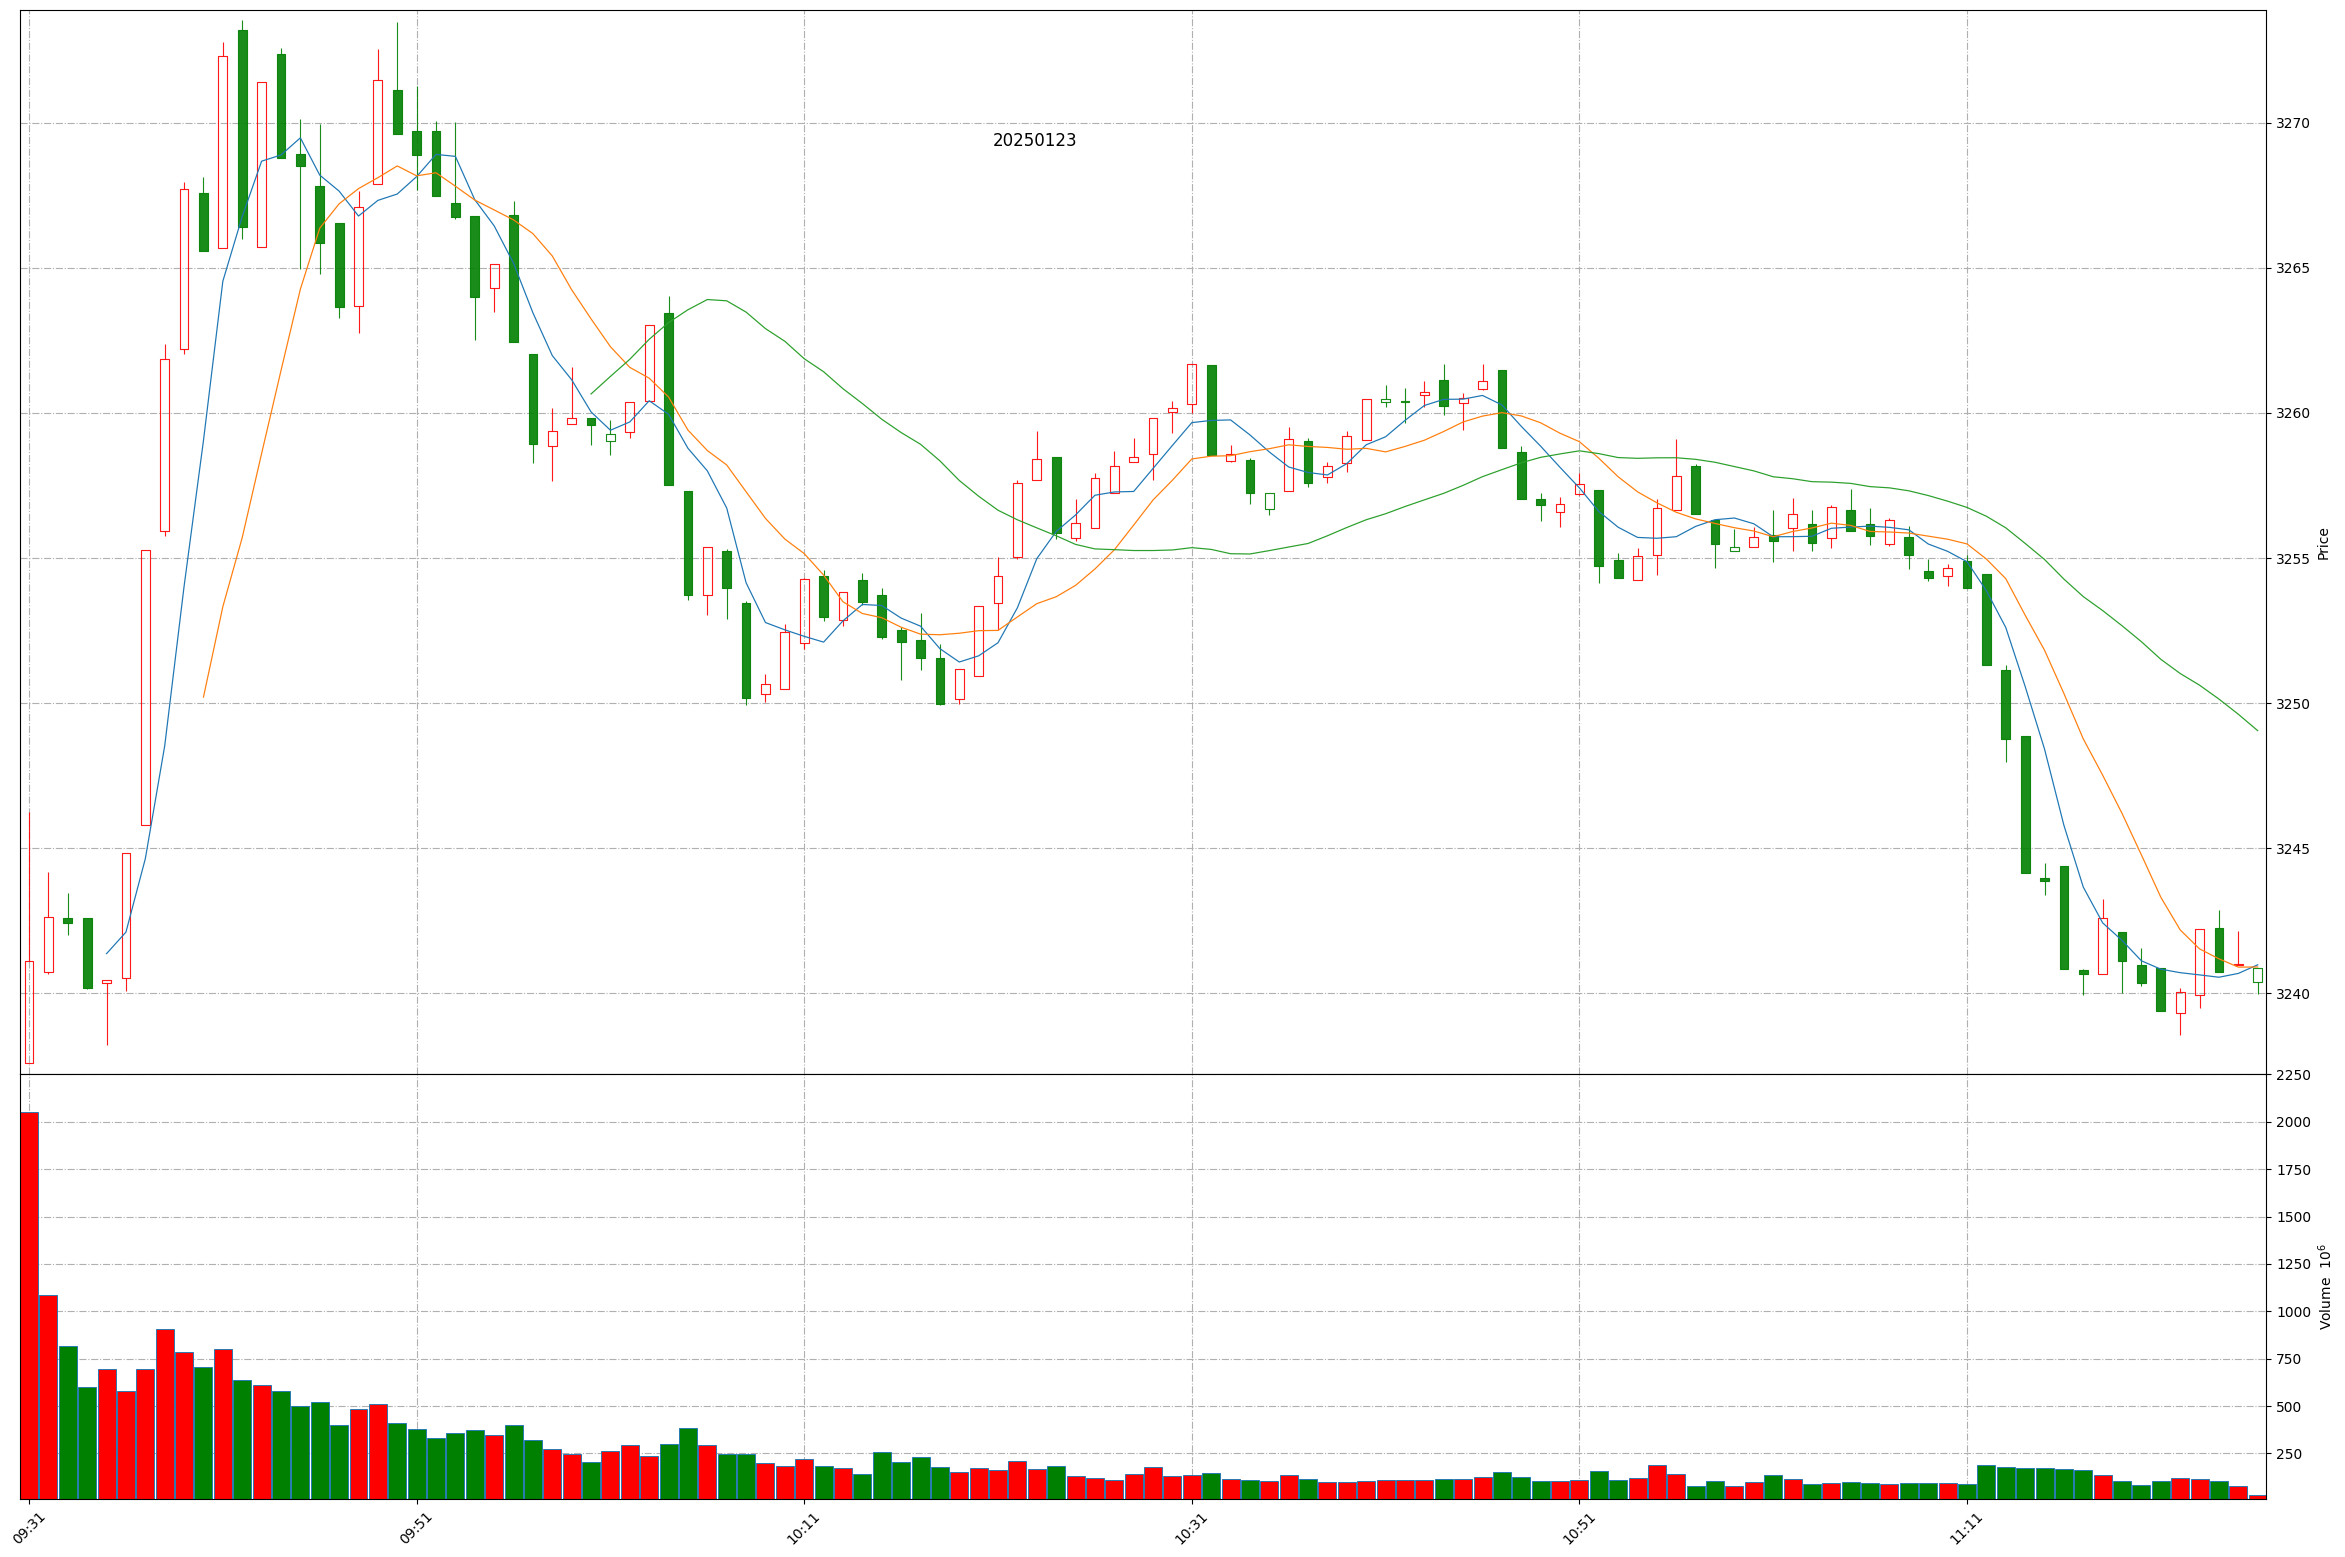
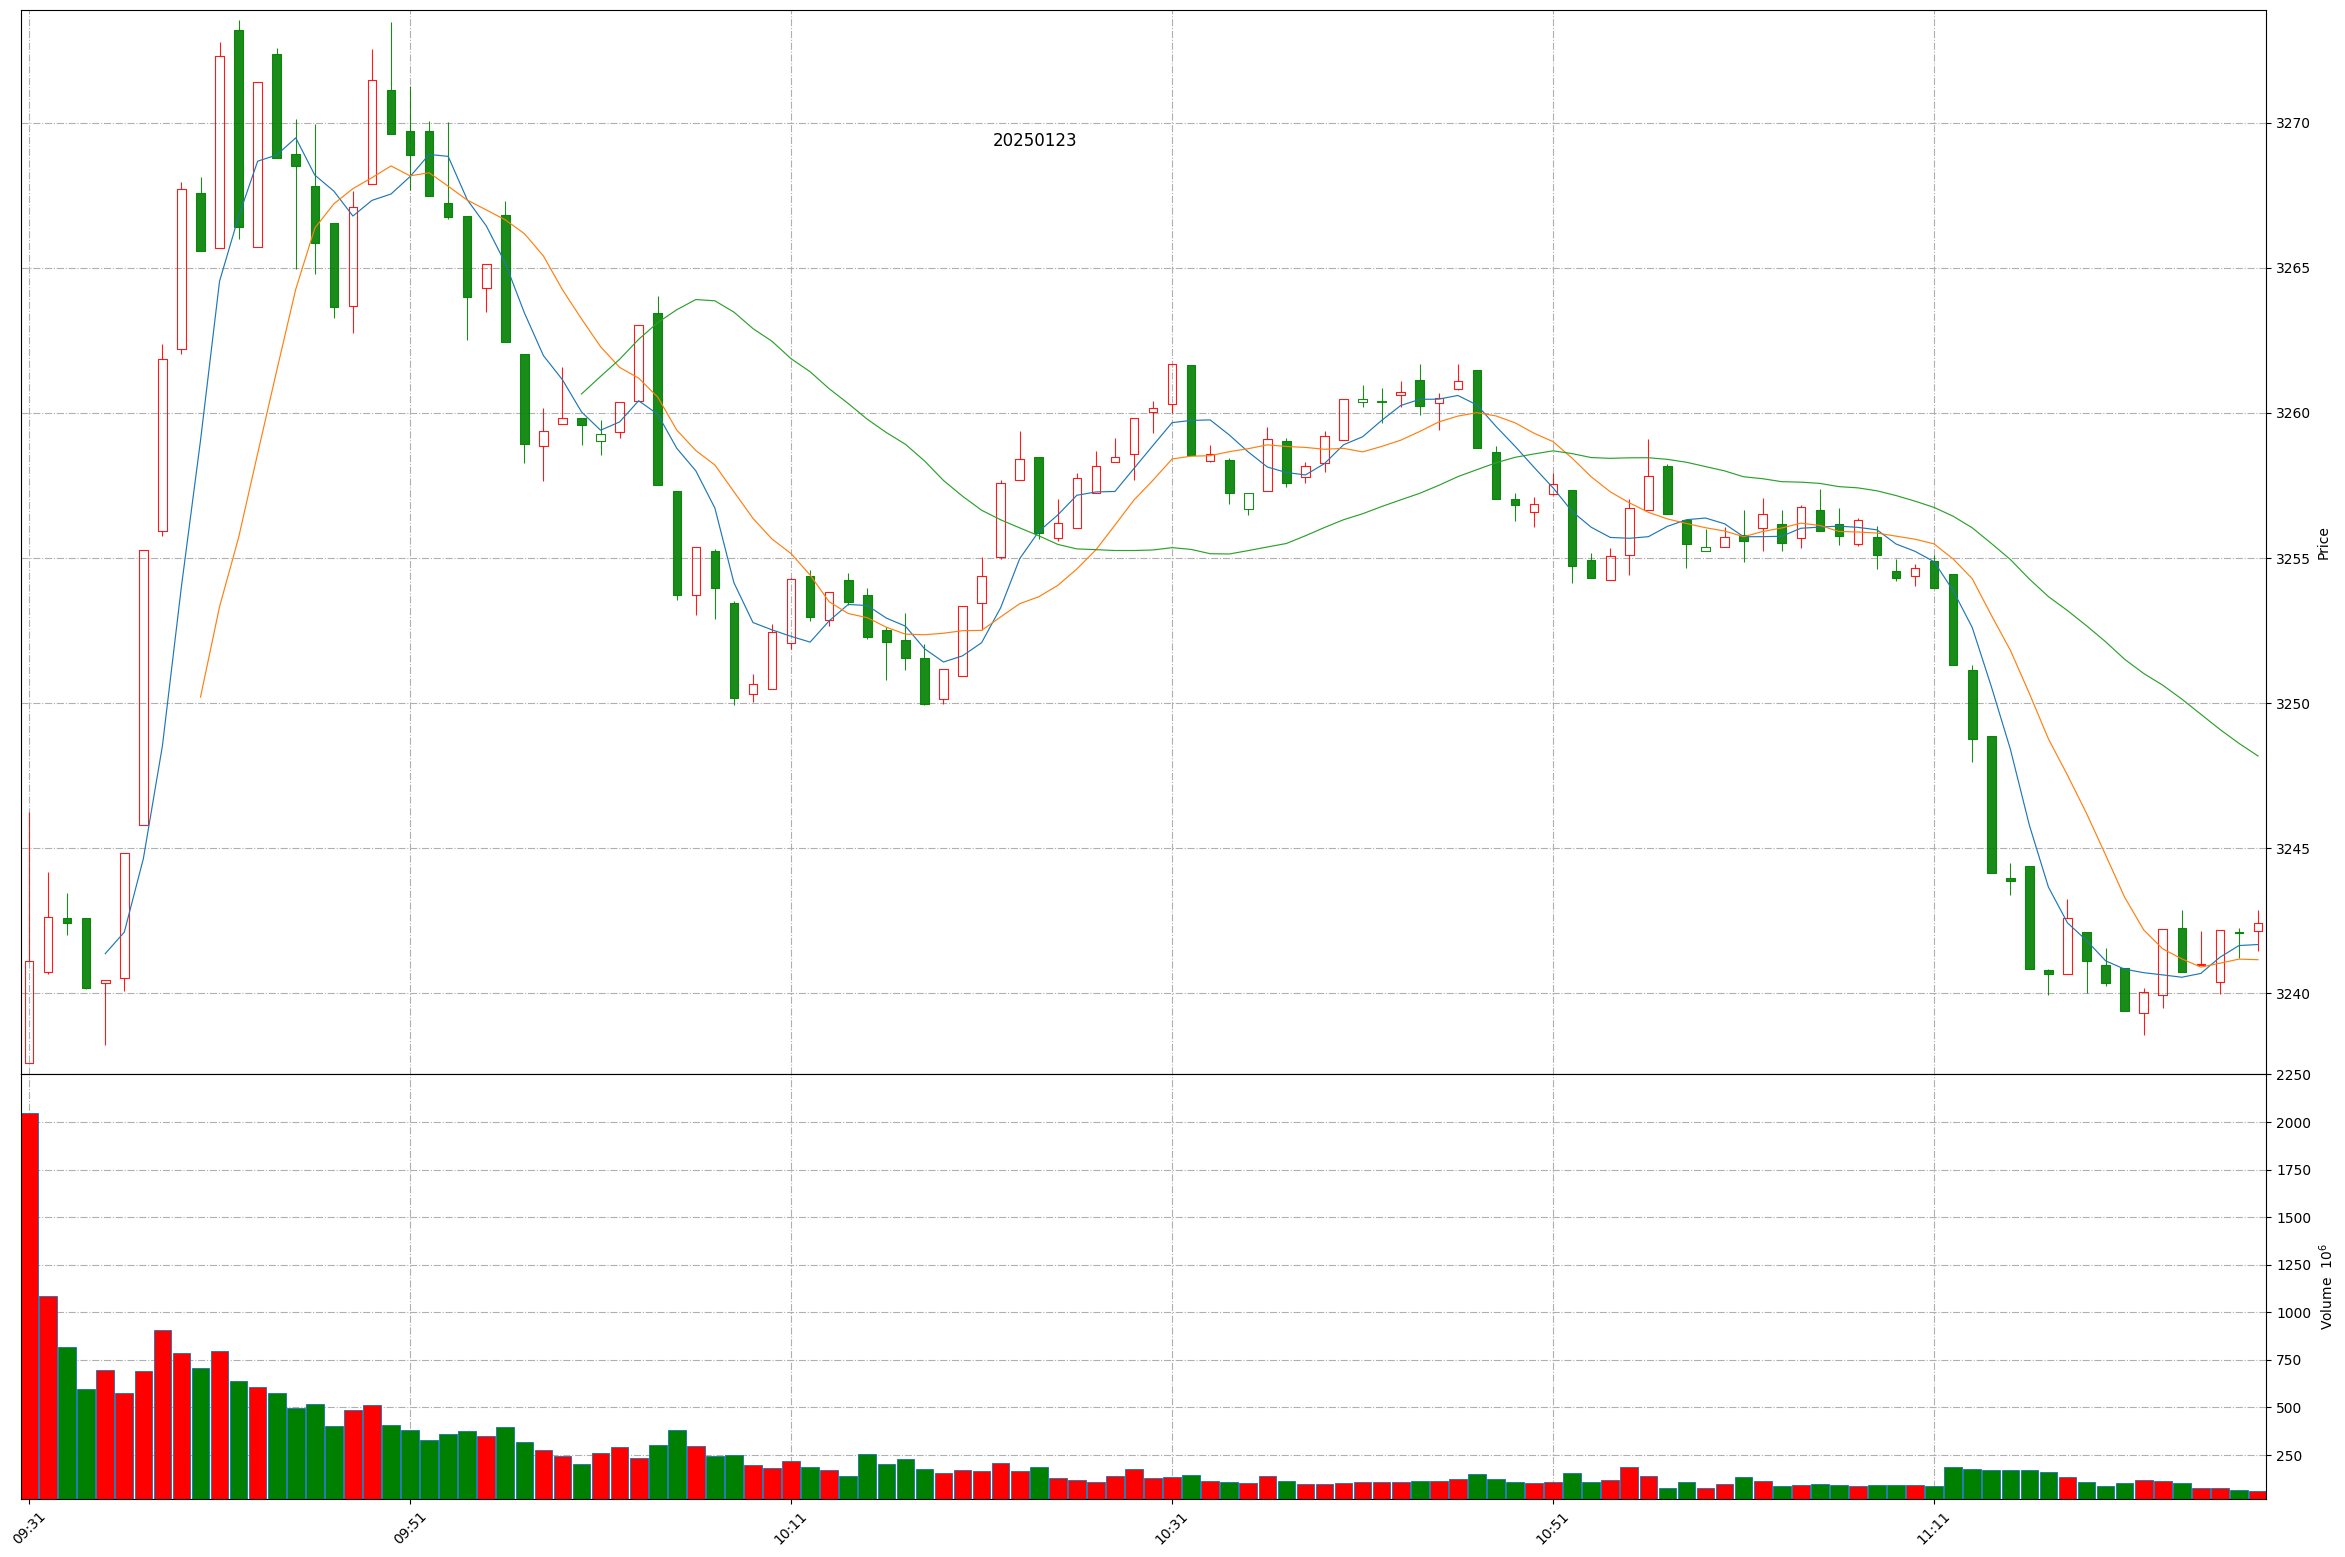
Github action update at 2025-01-23 11:28:18.

diff --git a/README.md b/README.md
@@ -1,11 +1,11 @@
 
 # Daily-A-share-market-quotes 每日 A 股指数（5min 更新）- 20250123
 
-### 上证指数 20250123 11:25
+### 上证指数 20250123 11:28
 ![](./fig/2025/1/20250123-sh000001.png)
 
-### 深证成指 20250123 11:25
+### 深证成指 20250123 11:28
 ![](./fig/2025/1/20250123-sz399001.png)
 
-### 北证50 20250123 11:25
+### 北证50 20250123 11:28
 ![](./fig/2025/1/20250123-bj899050.png)
